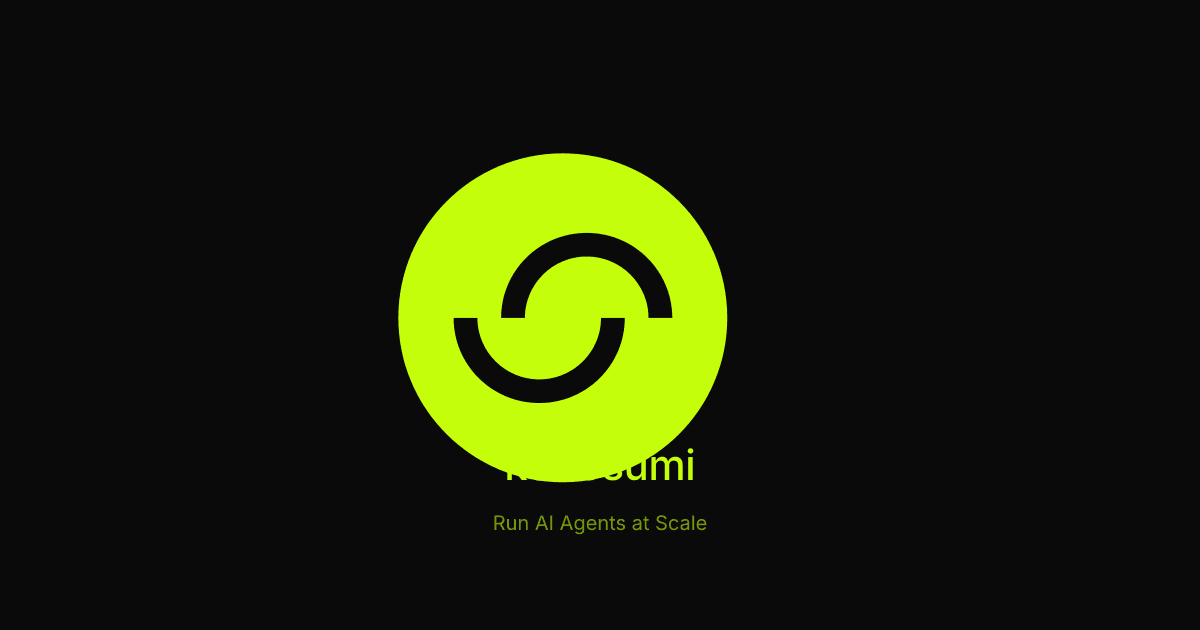
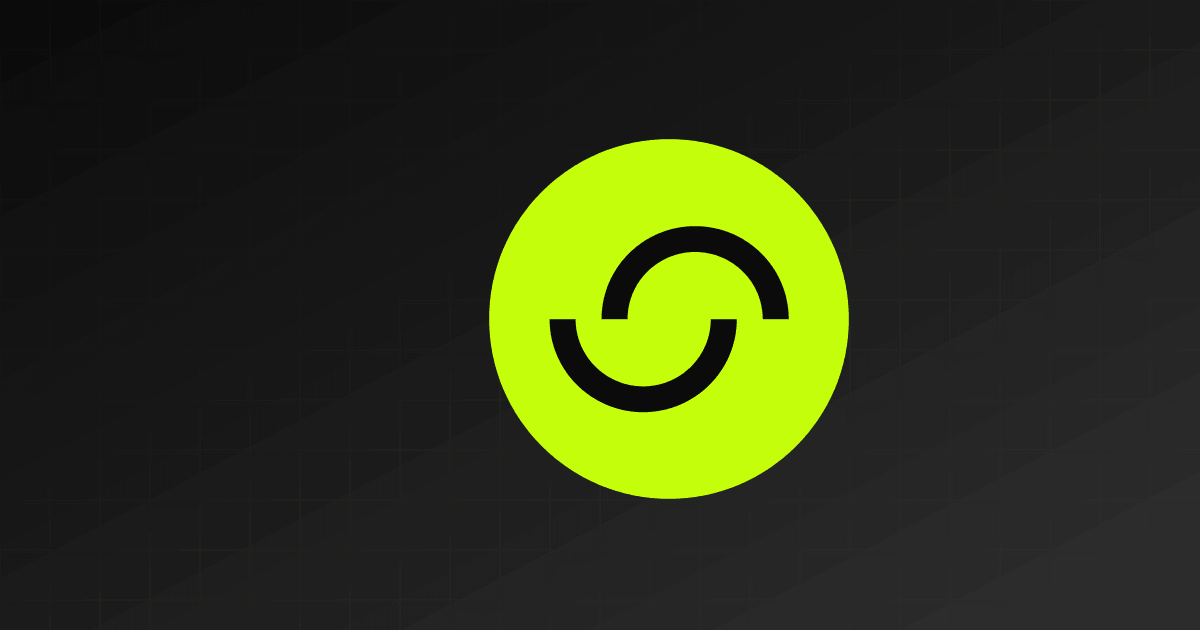
Fix OG images, optimize meta tags for SEO, remove all em-dashes
- Regenerate OG images with brand logos and colors (Masumi/Kodosumi/Sokosumi)
- Replace em-dashes with pipes in title templates and periods in descriptions
- Optimize meta descriptions for SEO clarity
- Restore original GIF video preview for Kodosumi (WebP was too blurry)

diff --git a/apps/kodosumi/src/app/page.tsx b/apps/kodosumi/src/app/page.tsx
@@ -4,13 +4,13 @@ import { Header, Footer, FadeIn } from "@summation/shared";
 import VideoModal from "@/components/VideoModal";
 
 export const metadata: Metadata = {
-  title: "Kodosumi — Run AI Agents at Scale",
+  title: "Kodosumi | Run AI Agents at Scale",
   description:
-    "Deploy, orchestrate, and scale AI agent services with Kodosumi. A distributed runtime built on Ray that handles agent execution, pipelines, and observability.",
+    "Deploy, orchestrate, and scale AI agent services with Kodosumi. A distributed runtime built on Ray for agent execution, pipelines, and observability.",
   openGraph: {
-    title: "Kodosumi — Run AI Agents at Scale",
+    title: "Kodosumi | Run AI Agents at Scale",
     description:
-      "A distributed runtime built on Ray that handles agent execution, pipelines, and observability at enterprise scale.",
+      "A distributed runtime built on Ray for agent execution, pipelines, and observability at enterprise scale.",
   },
 };
 
@@ -19,7 +19,7 @@ const pillars = [
     num: "01",
     title: "Scalability via Ray",
     description:
-      "Deploy locally, run pipelines in parallel, fine-tune — Kodosumi scales effortlessly thanks to Ray.",
+      "Deploy locally, run pipelines in parallel, fine-tune. Kodosumi scales effortlessly thanks to Ray.",
     accent: "#00C2FF",
     mini: (
       <div className="pillar-mini flex flex-col gap-1.5 mt-4">
@@ -307,7 +307,7 @@ const concepts = [
     label: "Core Concept",
     title: "Agentic Service",
     description:
-      "A self-contained, deployable unit that integrates one or more Flows. Agentic Services are what you deploy to Kodosumi — they bundle agents, flows, and configuration into a single runtime.",
+      "A self-contained, deployable unit that integrates one or more Flows. Agentic Services are what you deploy to Kodosumi. They bundle agents, flows, and configuration into a single runtime.",
     visual: (
       <div className="bg-[#F5F5F5] p-5 h-full">
         <div className="flex items-center justify-between mb-4">

diff --git a/apps/masumi/src/app/page.tsx b/apps/masumi/src/app/page.tsx
@@ -6,13 +6,13 @@ import MasumiStats from "@/components/MasumiStats";
 import VolumeTide from "@/components/VolumeTide";
 
 export const metadata: Metadata = {
-  title: "Masumi — Agents pay agents.",
+  title: "Masumi | Agents Pay Agents",
   description:
-    "Masumi lets AI agents pay each other. Escrow smart contracts, on-chain identity, and a public registry — so autonomous agents can transact without trusting each other.",
+    "Masumi is the payment network for AI agents. Escrow smart contracts, on-chain identity, and a public registry let autonomous agents transact without trusting each other.",
   openGraph: {
-    title: "Masumi — Agents pay agents.",
+    title: "Masumi | Agents Pay Agents",
     description:
-      "Escrow smart contracts, on-chain identity, and a public registry — so AI agents can transact without trusting each other.",
+      "The payment network for AI agents. Escrow smart contracts, on-chain identity, and a public registry for trustless agent-to-agent transactions.",
   },
 };
 

diff --git a/apps/sokosumi/src/app/page.tsx b/apps/sokosumi/src/app/page.tsx
@@ -9,13 +9,13 @@ import Security from "@/components/Security";
 import CTA from "@/components/CTA";
 
 export const metadata: Metadata = {
-  title: "Sokosumi — AI Marketing Agents for Teams",
+  title: "Sokosumi | AI Marketing Agents for Teams",
   description:
-    "Sokosumi gives marketing teams their own AI agents. Automate research, copywriting, SEO, and campaign execution — GDPR and EU AI Act compliant.",
+    "Sokosumi gives marketing teams their own AI agents. Automate research, copywriting, SEO, and campaign execution. GDPR and EU AI Act compliant.",
   openGraph: {
-    title: "Sokosumi — AI Marketing Agents for Teams",
+    title: "Sokosumi | AI Marketing Agents for Teams",
     description:
-      "Your marketing team's AI agents. Automate research, copy, SEO, and campaigns — GDPR and EU AI Act compliant.",
+      "AI agents for marketing teams. Automate research, copy, SEO, and campaigns. GDPR and EU AI Act compliant.",
   },
 };
 

diff --git a/apps/masumi/src/app/layout.tsx b/apps/masumi/src/app/layout.tsx
@@ -11,11 +11,11 @@ const inter = Inter({
 export const metadata: Metadata = {
   metadataBase: new URL("https://masumi.network"),
   title: {
-    default: "Masumi — The Payment Network for AI Agents",
-    template: "%s — Masumi",
+    default: "Masumi | The Payment Network for AI Agents",
+    template: "%s | Masumi",
   },
   description:
-    "Masumi lets AI agents pay each other. Escrow smart contracts, on-chain identity, and a public registry — so autonomous agents can transact without trusting each other.",
+    "Masumi is the payment network for AI agents. Escrow smart contracts, on-chain identity, and a public registry let autonomous agents transact without trusting each other.",
   icons: {
     icon: "/images/masumi-favicon.svg",
   },

diff --git a/apps/kodosumi/src/app/layout.tsx b/apps/kodosumi/src/app/layout.tsx
@@ -11,11 +11,11 @@ const inter = Inter({
 export const metadata: Metadata = {
   metadataBase: new URL("https://kodosumi.io"),
   title: {
-    default: "Kodosumi — Run AI Agents at Scale",
-    template: "%s — Kodosumi",
+    default: "Kodosumi | Run AI Agents at Scale",
+    template: "%s | Kodosumi",
   },
   description:
-    "Deploy, orchestrate, and scale AI agent services with Kodosumi. A distributed runtime built on Ray that handles agent execution, pipelines, and observability.",
+    "Deploy, orchestrate, and scale AI agent services with Kodosumi. A distributed runtime built on Ray for agent execution, pipelines, and observability.",
   icons: {
     icon: "/images/kodosumi-favicon.png",
   },

diff --git a/apps/sokosumi/src/app/layout.tsx b/apps/sokosumi/src/app/layout.tsx
@@ -11,11 +11,11 @@ const inter = Inter({
 export const metadata: Metadata = {
   metadataBase: new URL("https://sokosumi.com"),
   title: {
-    default: "Sokosumi — AI Marketing Agents for Teams",
-    template: "%s — Sokosumi",
+    default: "Sokosumi | AI Marketing Agents for Teams",
+    template: "%s | Sokosumi",
   },
   description:
-    "Sokosumi gives marketing teams their own AI agents. Automate research, copywriting, SEO, and campaign execution — GDPR and EU AI Act compliant.",
+    "Sokosumi gives marketing teams their own AI agents. Automate research, copywriting, SEO, and campaign execution. GDPR and EU AI Act compliant.",
   icons: {
     icon: "/images/sokosumi-favicon.svg",
   },

diff --git a/apps/masumi/src/app/press/page.tsx b/apps/masumi/src/app/press/page.tsx
@@ -3,9 +3,9 @@ import { Header, Footer } from "@summation/shared";
 
 export const metadata: Metadata = {
   title: "Press",
-  description: "Press kit for Masumi — brand assets, key facts about the payment network for AI agents, and media contact information.",
+  description: "Press kit for Masumi. Brand assets, key facts about the payment network for AI agents, and media contact information.",
   openGraph: {
-    title: "Press — Masumi",
+    title: "Press | Masumi",
     description: "Brand assets, key facts, and media inquiries for the Masumi payment network.",
   },
 };

diff --git a/apps/masumi/src/app/blogs/page.tsx b/apps/masumi/src/app/blogs/page.tsx
@@ -6,9 +6,9 @@ import { getAllPosts, getCategories, type Category } from "@/lib/blog";
 export const metadata: Metadata = {
   title: "Blog",
   description:
-    "News, technical deep-dives, and product updates from the Masumi team — the payment network for AI agents.",
+    "News, technical deep-dives, and product updates from the Masumi team. The payment network for AI agents.",
   openGraph: {
-    title: "Blog — Masumi",
+    title: "Blog | Masumi",
     description: "News, technical deep-dives, and product updates from the Masumi team.",
   },
 };

diff --git a/apps/sokosumi/src/components/CTA.tsx b/apps/sokosumi/src/components/CTA.tsx
@@ -15,7 +15,7 @@ export default function CTA() {
                 Your team, amplified.
               </h2>
               <p className="mt-6 text-[16px] md:text-[20px] text-white/40 max-w-[460px] leading-[1.4]">
-                Give your team AI coworkers that research, plan, write, and optimize — so you can focus on strategy.
+                Give your team AI coworkers that research, plan, write, and optimize. So you can focus on strategy.
               </p>
               <div className="mt-10 flex items-center gap-4">
                 <Link

diff --git a/apps/masumi/src/app/explorer/page.tsx b/apps/masumi/src/app/explorer/page.tsx
@@ -6,11 +6,11 @@ import ActivityHeatmap from "@/components/ActivityHeatmap";
 import VolumeTide from "@/components/VolumeTide";
 
 export const metadata: Metadata = {
-  title: "Explorer - Masumi",
+  title: "Explorer",
   description:
     "Explore on-chain transactions for the Masumi escrow smart contract. View UTXOs, agent registrations, escrow payments, and releases.",
   openGraph: {
-    title: "Explorer - Masumi",
+    title: "Explorer | Masumi",
     description:
       "On-chain transaction explorer for the Masumi payment network.",
   },

diff --git a/apps/sokosumi/src/app/agentic-coworkers/page.tsx b/apps/sokosumi/src/app/agentic-coworkers/page.tsx
@@ -6,7 +6,7 @@ import { Header, Footer, FadeIn } from "@summation/shared";
 export const metadata: Metadata = {
   title: "Agentic Coworkers",
   description:
-    "Meet the AI agents that do the work. Research, planning, SEO, and copywriting — each agent owns their domain.",
+    "Meet the AI agents that do the work. Research, planning, SEO, and copywriting. Each agent owns their domain.",
 };
 
 const agents = [

diff --git a/apps/kodosumi/src/components/VideoModal.tsx b/apps/kodosumi/src/components/VideoModal.tsx
@@ -23,7 +23,7 @@ export default function VideoModal() {
         style={{ paddingBottom: "56.25%" }}
       >
         <img
-          src="/images/kodosumi-video-preview.webp"
+          src="/images/kodosumi-video-preview.gif"
           alt="Kodosumi Intro - click to play"
           className="absolute inset-0 w-full h-full object-cover rounded-lg"
         />
